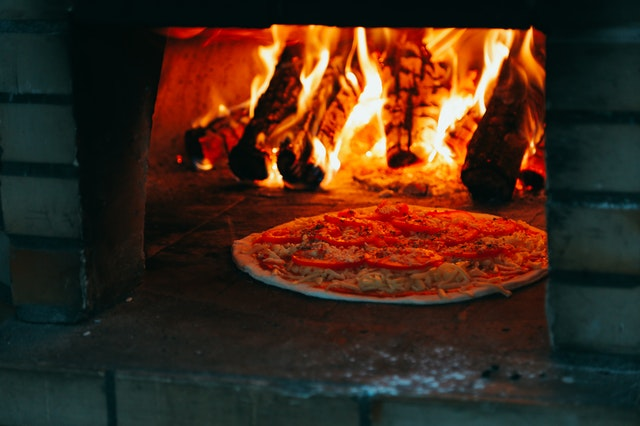
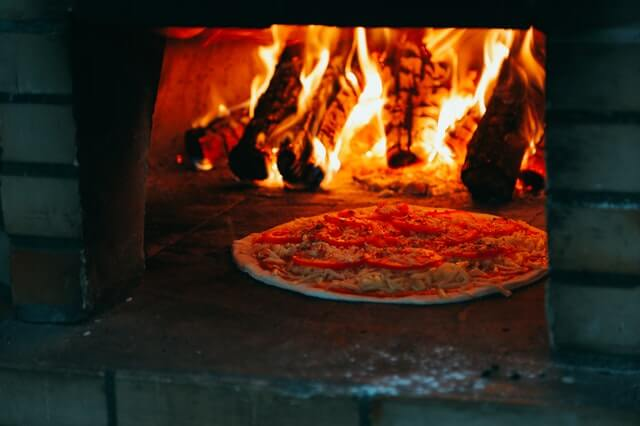
reducing file size and minor updates

diff --git a/test/testing.html b/test/testing.html
@@ -1,0 +1,57 @@
+<!DOCTYPE html>
+<html lang="en" dir="ltr">
+<head>
+  <meta charset="utf-8">
+  <link rel="stylesheet" type="text/css" href="css/stylesheet.css">
+  <link href="https://fonts.googleapis.com/css2?family=Bangers&family=Modak&display=swap" rel="stylesheet">
+  <title>Chicago Stlye Pizza</title>
+</head>
+<body>
+  <header>
+    <div class="container">
+      <img src="img/logo/Asset8-8.png" alt="chicago style logo" class="logo">
+      <nav>
+        <ul>
+          <li><a href="index.html">Home</a></li>
+          <li><a href="about_us.html">Our Story</a></li>
+          <li><a href="order_now.html">Order Now</a></li>
+          <li><a href="contact.html">Contact Us</a></li>
+          <li><a href="media.html">Follow Us</a> </li>
+        </ul>
+      </nav>
+    </div>
+  </header>
+  <main>
+    <h3>Contact us or place an order</h3>
+    <div class="containerdet">
+      <form action="response.html">
+        <label for="fname">First Name</label>
+        <input type="text" id="fname" name="firstname" placeholder="Your name..">
+        <label for="lname">Last Name</label>
+        <input type="text" id="lname" name="lastname" placeholder="Your last name..">
+        <label>Delivery Suburb (if applicable):</label>
+        <select class="selt5" name="marketing">
+          <option value="">Select</option>
+          <option value="">Collingwood</option>
+          <option value="">Brunswick</option>
+          <option value="">Fitzroy</option>
+          <option value="">East Brunswick</option>
+          <option value="">Abbotsford</option>
+        </select>
+        <label for="message">Leave us a message:</label>
+        <textarea id="message" name="message" placeholder="Write something.."></textarea>
+        <input type="submit" value="Submit">
+        <input type="reset" name="" value="Clear">
+      </form>
+    </div>
+  </main>
+  <footer>
+    <ul>
+      <li id="address">Chicago Style Melbourne 123 Portillo St Brunswick 3056 VIC</li>
+      <li><a href="media.html">Follow Us</a></li>
+      <li><a href="contact.html">Contact Us</a></li>
+      <li id="phone">09 9856 7883</li>
+    </ul>
+  </footer>
+</body>
+</html>

diff --git a/test/bookings.html b/test/bookings.html
@@ -1,0 +1,30 @@
+<!DOCTYPE html>
+<html lang="en" dir="ltr">
+  <head>
+    <meta charset="utf-8">
+    <title>Chicago Style Pizza</title>
+  </head>
+  <body>
+    <header>
+      <h1>Chicago Style</h1>
+    </header>
+    <h3>Book a table</h3>
+    What date? <input type="date" name="pizzadate"> <br> <br>
+    How many people? <input type="number" name="peopleaNo"/> <br><br>
+    Contact Email Address: <input type="email" name="emailpizza"/>
+    <nav>
+      <ul>
+        <li><a href="index.html">Home</a></li>
+        <li><a href="about_us.html">Our Story</a></li>
+        <li><a href="order_now.html">Order Now</a></li>
+        <li><a href="bookings.html">Bookings</a></li>
+      </ul>
+    </nav>
+    <footer>
+      <ul>
+        <li><a href="media.html"</a>Follow Us</li>
+        <li><a href="contact.html">Contact Us</a></li>
+      </ul>
+    </footer>
+  </body>
+</html>

diff --git a/css/stylesheet.css b/css/stylesheet.css
@@ -1,5 +1,5 @@
 html body {
-  font-size: 20px;
+  font-size: 18px;
   font-weight: normal;
   font-style: normal;
   text-align: center;
@@ -203,6 +203,10 @@ input[type=reset] {
   text-align: left;
 }
 
+#description {
+  font-style: normal;
+}
+
 .columnpizza {
   width: 33.33%;
   float: left;
@@ -211,10 +215,12 @@ input[type=reset] {
   padding-top: 1.5rem;
   padding-left: 6rem;
   text-align: left;
+  line-height: 15px;
 }
 
 .columnpizza p {
   font-style: italic;
+  font-size: 18px;
 }
 
 .column p {

diff --git a/order_now.html b/order_now.html
@@ -37,7 +37,7 @@
     <div class="row">
       <div class="columnpizza">
         <h3>Pizza - $20</h3>
-        <p>One size fits all! All our de-lish pizzas are 20" and packed with flav-our.</p>
+        <p id="description">All our de-lish pizzas are 20" and packed with flav-our.</p>
         <h4>Margartia</h4>
         <p>Tomato sauce, mozzarella and oregano</p>
         <h4>Mexican</h4>
